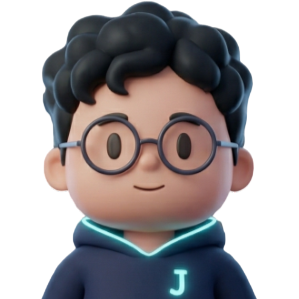
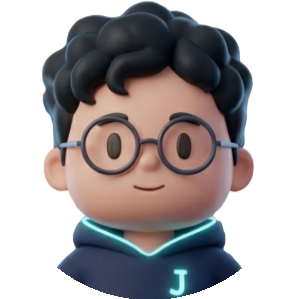
fix: redondear imagen de perfil fisicamente

Changed region(s): [[0.1204, 0.903, 0.4515, 1.0], [0.5719, 0.903, 0.8729, 1.0]]

diff --git a/README.md b/README.md
@@ -1,5 +1,5 @@
 <div align="center">
-  <img src="./profile.png" width="250" alt="Jordan Noblejas" style="border-radius: 50%;" />
+  <img src="./profile.png" width="250" alt="Jordan Noblejas" />
   <br>
   <br>
   <h1>¡Hola! Soy Jordan 👋</h1>
